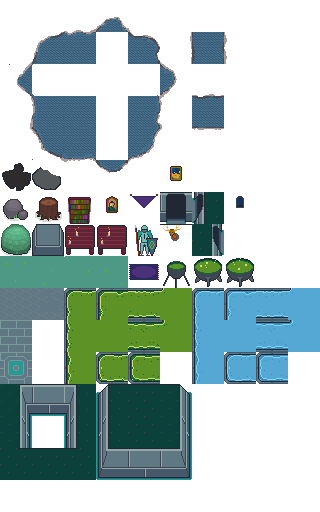
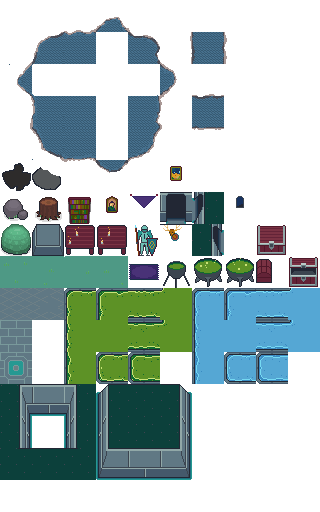
WIP: loot goblin on first map

Changed region(s): [[0.7812, 0.4375, 0.9062, 0.5625], [0.9062, 0.5, 1.0, 0.5625]]

diff --git a/src/grid.rs b/src/grid.rs
@@ -76,8 +76,7 @@ use crate::{
     drawing::{draw_arrow, draw_dashed_line},
 };
 
-const BACKGROUND_COLOR: Color = rgb(12, 64, 59); // COL_GRAY; // Color::new(0.2, 0.2, 0.2, 1.0);
-                                                 //const GRID_COLOR: Color = Color::new(0.4, 0.4, 0.4, 1.0);
+const BACKGROUND_COLOR: Color = rgb(6, 32, 30); // rgb(12, 64, 59);
 
 const CELL_OCCUPIED_COLOR: Color = Color::new(0.9, 0.1, 0.2, 0.1);
 
@@ -1115,6 +1114,8 @@ impl GameGrid {
                 .find(|ch| ch.player_controlled())
                 .map(|ch| ch.id());
         }
+
+        self.character_animations.retain(|a| a.character_id != id);
     }
 
     fn routes(&self, character_id: CharacterId) -> Ref<IndexMap<(i32, i32), ChartNode>> {
@@ -1522,7 +1523,7 @@ impl GameGrid {
         }
     }
 
-    pub fn entity_draw_size(&self) -> (f32, f32) {
+    pub fn default_entity_draw_size(&self) -> (f32, f32) {
         (
             self.cell_w * CELLS_PER_ENTITY as f32,
             self.cell_w * CELLS_PER_ENTITY as f32,
@@ -1531,7 +1532,7 @@ impl GameGrid {
 
     fn draw_character(&self, character: &Character) {
         let mut params = DrawTextureParams {
-            dest_size: Some(self.entity_draw_size().into()),
+            dest_size: Some(self.default_entity_draw_size().into()),
             flip_x: character.is_facing_east.get(),
             ..Default::default()
         };
@@ -4271,7 +4272,7 @@ impl GameGrid {
                         self.grid_y_f32_to_screen(effect.destination_pos.1 + 0.5),
                     );
                     let texture_size = texture.size();
-                    let texture_draw_size = self.entity_draw_size();
+                    let texture_draw_size = self.default_entity_draw_size();
 
                     let total_dist = Vec2::from(final_to).distance(Vec2::from(from)); //+ texture_draw_size.0;
                     let total_num_textures = total_dist / texture_draw_size.0 + 0.5;

diff --git a/src/bin/editor.rs b/src/bin/editor.rs
@@ -22,7 +22,7 @@ use rpg::core::{Character, CharacterId, HandType, Party};
 
 use rpg::game_ui::{draw_rectangle_lines2, UiState};
 use rpg::game_ui_connection::{QuitEvent, QUIT_WITH_ESCAPE};
-use rpg::grid::ControlPoint;
+use rpg::grid::{ControlPoint, GameGrid};
 use rpg::init_fight_map::GameInitState;
 use rpg::map_data::{create_character, create_game_grid, CharacterData, CharacterType, MapData};
 use rpg::pathfind::Occupation;
@@ -157,7 +157,7 @@ async fn main() {
 
         if !sidebar.hovered && !settings_hovered && !char_editor_hovered {
             if let Some(action) = sidebar.action() {
-                let entity_size = game_grid.entity_draw_size();
+                let entity_size = game_grid.default_entity_draw_size();
 
                 let rect = Rect::new(
                     snapped_mouse_screen_pos.0 - game_grid.cell_w,
@@ -368,7 +368,6 @@ async fn main() {
                             // TODO: encapsulate some of this
                             map_data.control_points.insert(pos, *control_point);
                             game_grid.control_points.insert(pos, *control_point);
-                            // TODO: Add control point to pathfind grid
                             game_grid
                                 .pathfind_grid
                                 .control_points
@@ -554,6 +553,7 @@ impl Sidebar {
             TerrainId::StoneWallConvexNorthEast,
             TerrainId::Cauldron,
             TerrainId::Cauldron2,
+            TerrainId::Chest,
         ];
         let mut terrain_actions: Vec<EditorAction> = terrain_ids
             .iter()

diff --git a/src/game_ui.rs b/src/game_ui.rs
@@ -2131,9 +2131,16 @@ impl UserInterface {
             self.sound_player.stop(sound_id);
         }
 
-        let actor_name_tag = self.characters.get(actor).name_tag();
+        let actor = self.characters.get(actor);
+        let actor_name_tag = actor.name_tag();
         let mut line = if ability.id == AbilityId::EnemyEscape {
-            format!("|{}| escaped.", actor_name_tag)
+            let gold = actor.get_condition_stacks(Condition::Treasure);
+            let with_gold = if gold > 0 {
+                format!(" with |<value>{}| gold", gold)
+            } else {
+                "".to_string()
+            };
+            format!("|{}| escaped{}", actor_name_tag, with_gold)
         } else {
             let verb = if matches!(ability.roll, Some(AbilityRollType::Spell)) {
                 "cast"

diff --git a/src/textures.rs b/src/textures.rs
@@ -502,6 +502,7 @@ pub enum TerrainId {
     Mat,
     Cauldron,
     Cauldron2,
+    Chest,
     WallOpeningNorth,
     WallOpeningEast,
     WallOpeningWest,
@@ -703,6 +704,7 @@ pub fn terrain_atlas_area(terrain_id: TerrainId) -> (f32, Rect) {
         TerrainId::Mat => (4, 8),
         TerrainId::Cauldron => (5, 8),
         TerrainId::Cauldron2 => (6, 8),
+        TerrainId::Chest => (9, 8),
         TerrainId::WallOpeningNorth => (5, 6),
         TerrainId::WallOpeningEast => (6, 6),
         TerrainId::WallOpeningWest => (6, 7),

diff --git a/src/init_fight_map.rs b/src/init_fight_map.rs
@@ -75,6 +75,13 @@ pub fn init_fight_map(player_characters: Vec<Rc<Character>>, fight_id: FightId) 
         pathfind_grid.set_occupied(*pos, Some(Occupation::Terrain(terrain_id.terrain_type())));
     }
 
+    for (pos, control_point) in &map_data.control_points {
+        pathfind_grid
+            .control_points
+            .borrow_mut()
+            .insert(*pos, *control_point);
+    }
+
     GameInitState {
         characters,
         active_character_id: active_char_id.unwrap(),

diff --git a/src/sounds.rs b/src/sounds.rs
@@ -29,7 +29,7 @@ impl SoundPlayer {
 
         for (id, volume, names) in &[
             (SoundId::Execute, 1.6, vec!["fl_execute.ogg"]),
-            (SoundId::Coin, 0.2, vec!["coin"]),
+            (SoundId::Coin, 0.05, vec!["coin"]),
             (
                 SoundId::HoverButton,
                 1.0,

diff --git a/src/core.rs b/src/core.rs
@@ -7063,7 +7063,7 @@ impl Character {
         res
     }
 
-    fn get_condition_stacks(&self, condition: Condition) -> u32 {
+    pub fn get_condition_stacks(&self, condition: Condition) -> u32 {
         self.conditions.borrow().get_stacks(&condition)
     }
 

diff --git a/src/pathfind.rs b/src/pathfind.rs
@@ -17,6 +17,7 @@ use crate::{
     util::line_visitor,
 };
 
+// Entities cover 3x3 cells on the grid
 pub const CELLS_PER_ENTITY: u32 = 3;
 
 #[derive(Debug, Copy, Clone)]
